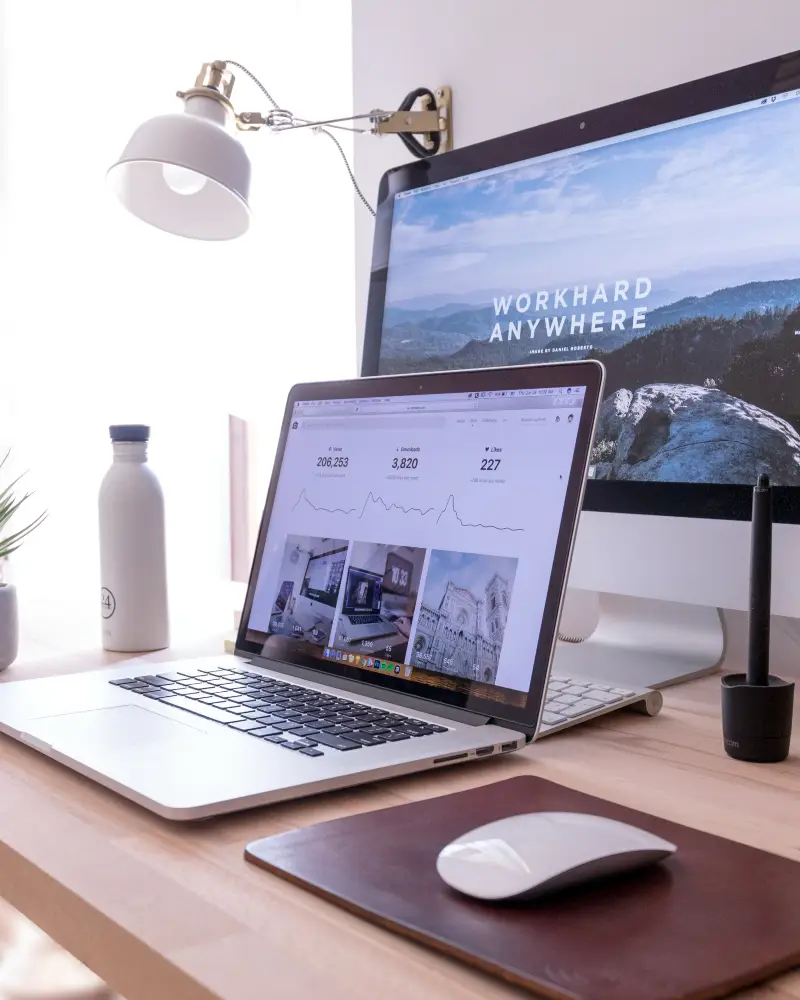
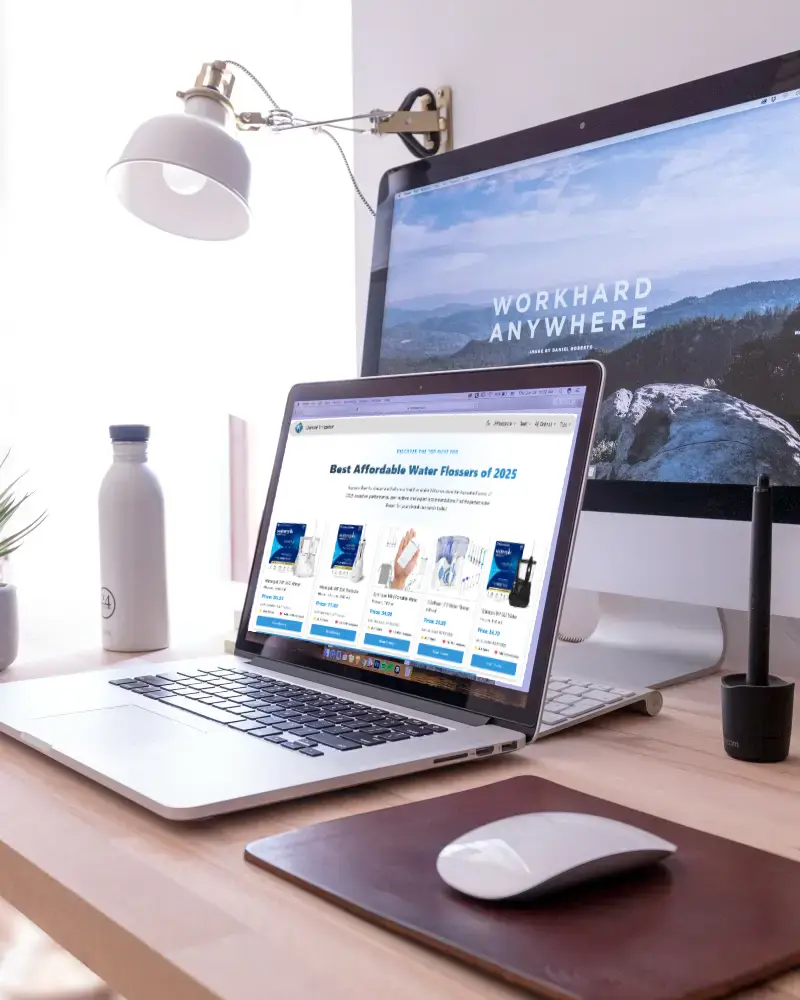
updated portfolio

Changed region(s): [[0.3125, 0.403, 0.7188, 0.682]]

diff --git a/pages/portafolio/index.vue b/pages/portafolio/index.vue
@@ -1,14 +1,15 @@
 <script lang="ts" setup>
 import Title from '~/components/atoms/title-description/index.vue'
 import LinkSvg from '~/components/icons/LinkSvg.vue'
-import GithubSvg from '~/components/icons/Github.vue';
+import GithubSvg from '~/components/icons/Github.vue'
+import SubTitle from '~/components/atoms/subtitle-description/index.vue'
 
 const projects = [
   {
-    title: 'Niche E-Commerce Platform',
+    title: 'Landing Page Nicho',
     description: 'Un sitio web dinámico y especializado para usuarios que buscan irrigadores dentales, que incluye un blog con guías y reseñas.',
     image: '/images/portfolio/portfolio-1.webp',
-    technologies: ['Nuxt.js', 'Node.js', 'SCSS', 'AWS'],
+    technologies: ['Nuxt.js', 'Node.js', 'SCSS', 'SEO'],
     demo: 'https://dental-irrigator.net/',
     github: 'https://github.com/alejandroyunes/nuxt-dental-irrigator'
   },
@@ -16,17 +17,60 @@ const projects = [
     title: 'Plataforma E-commerce',
     description: 'Una plataforma de compra y venta de productos con posibilidad de apostar por el producto solo con el número telefónico.',
     image: '/images/portfolio/portfolio-2.webp',
-    technologies: ['Nuxt.js', 'TypeScript', 'SEO', 'AWS'],
+    technologies: ['Nuxt.js', 'TypeScript', 'SEO', 'MongoDB'],
     demo: 'https://www.epicompras.com/',
     github: 'https://github.com/alejandroyunes/nuxt-dental-irrigator'
   },
   {
-    title: 'Sitio WebDr. Puerta',
+    title: 'Landing Page Dr. Puerta',
     description: 'Un sitio web elegante de la clínica que ofrece información detallada sobre el médico y sus procedimientos.',
     image: '/images/portfolio/portfolio-3.webp',
-    technologies: ['Vue.js', 'OpenWeather API', 'Chart.js', 'SCSS'],
+    technologies: ['Nuxt.js', 'TypeScript', 'SCSS', 'SEO'],
     demo: 'https://www.drpuerta.com/',
     github: 'https://github.com/alejandroyunes/nuxt-dr-puerta'
+  }
+]
+
+const cases = [
+  {
+    title: ' Landing Page Estrella Immobilien',
+    description: 'Sitio web elegante y moderno sobre propiedad raíz y propiedades en venta y alquiler.',
+    image: '/images/portfolio/portfolio-4.webp',
+    technologies: ['Vue.js', 'TypeScript', 'StyleX', 'Vercel'],
+    demo: 'https://vue-scss-inmobiliaria.vercel.app/',
+    github: 'https://github.com/alejandroyunes/inmobiliaria-vue-scss'
+  },
+  {
+    title: 'Landing Page Musical',
+    description: 'Una landing page promocionando artistas y grupos musicales.',
+    image: '/images/portfolio/portfolio-5.webp',
+    technologies: ['Vue.js', 'TypeScript', 'StyleX', 'Vercel'],
+    demo: 'https://vue-scss-music.vercel.app/',
+    github: 'https://github.com/alejandroyunes/vue-scss-music'
+  },
+  {
+    title: 'Landing Page Energias Renovables',
+    description: 'Landing page para una empresa de energías renovables.',
+    image: '/images/portfolio/portfolio-6.webp',
+    technologies: ['Vue.js', 'TypeScript', 'StyleX', 'Vercel'],
+    demo: 'https://vue-scss-solar.vercel.app/',
+    github: 'https://github.com/alejandroyunes/vue-solar'
+  },
+  {
+    title: 'Landing Page banda de Punk Rock',
+    description: 'Landing page para una banda reconocida en Colombia de Punk Rock.',
+    image: '/images/portfolio/portfolio-7.webp',
+    technologies: ['React.js', 'TypeScript', 'Styled Components', 'Vercel'],
+    demo: 'https://punkies-tailwind.vercel.app/',
+    github: 'https://github.com/alejandroyunes/punkies-tailwind'
+  },
+  {
+    title: 'Landing Page Reservas por hora',
+    description: 'Landing page para un caso de estudio sobre reservas por hora.',
+    image: '/images/portfolio/portfolio-8.webp',
+    technologies: ['React.js', 'TypeScript', 'Tailwind', 'Vercel'],
+    demo: 'https://scheduler-gamma-three.vercel.app/',
+    github: 'https://vercel.com/alejandro-yunes-projects/scheduler'
   }
 ]
 
@@ -81,6 +125,41 @@ useSeoMeta({
       </div>
     </div>
   </section>
+
+  <SubTitle title="Casos de estudio" description="Algunos casos de estudio en varias tecnologías." />
+
+  <section class="work">
+    <div class="container">
+
+      <div class="work__grid">
+        <article v-for="project in cases" :key="project.title" class="project">
+          <div class="project__image-wrapper">
+            <NuxtImg :src="project.image" :alt="project.title" class="project__image" />
+          </div>
+          <div class="project__content">
+            <h3 class="project__title">{{ project.title }}</h3>
+            <p class="project__description">{{ project.description }}</p>
+            <ul class="project__tech-stack">
+              <li v-for="tech in project.technologies" :key="tech" class="project__tech">
+                {{ tech }}
+              </li>
+            </ul>
+            <div class="project__links">
+              <NuxtLink :href="project.demo" class="project__link" target="_blank">
+                <LinkSvg />
+                <span>Vista Demo</span>
+              </NuxtLink>
+              <NuxtLink :href="project.github" class="project__link" target="_blank">
+                <GithubSvg />
+                <span>Código Fuente</span>
+              </NuxtLink>
+            </div>
+          </div>
+        </article>
+      </div>
+    </div>
+  </section>
+
 </template>
 
 
